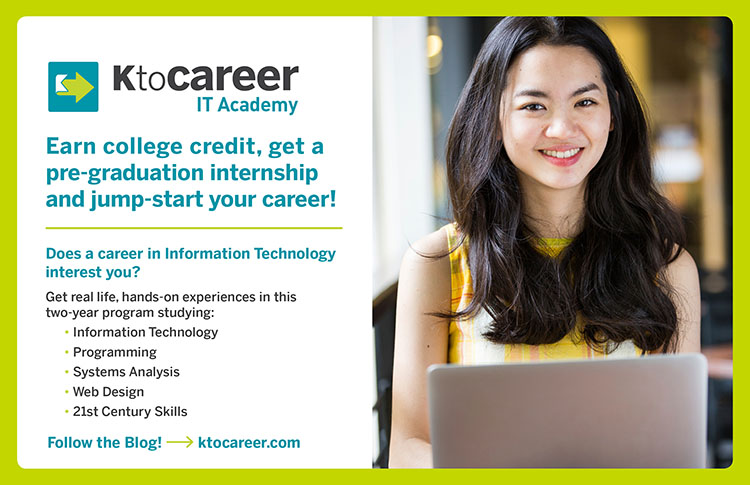
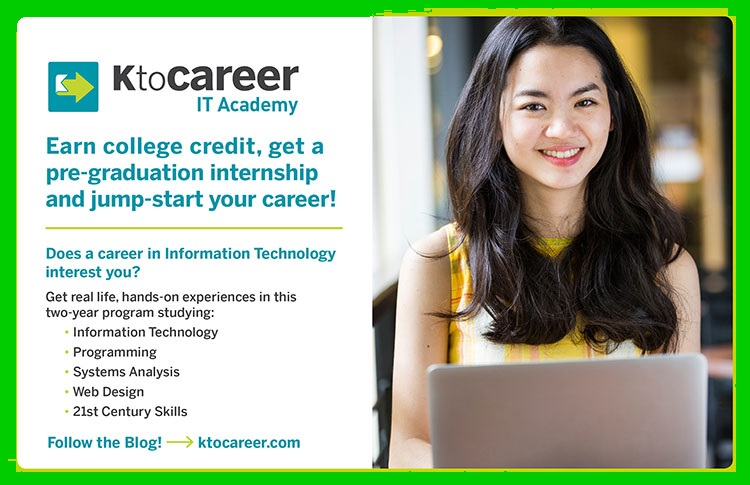
about tab

diff --git a/index.html b/index.html
@@ -10,9 +10,9 @@
         <div id="wrapper">
             <div id="main">
                 <div id="navbar">
-                    <h2 id="title">ITA DUBLIN</h2>
+                    <h2 id="title"><a id="homelink" href="index.html">ITA DUBLIN</a></h2>
                         <ul id="buttons">
-                            <li class="button" id="firstbutton"><a class="nav" href="index.html">About</a></li>
+                            <li class="button" id="firstbutton"><a class="nav" href="about.html">About</a></li>
                             <li class="button"><a class="nav" href="index.html">Courses</a></li>
                             <li class="button"><a class="nav" href="index.html">FAQ</a></li>
                             <li class="button"><a class="nav" href="index.html">Apply</a></li>
@@ -24,17 +24,17 @@
                     <p id="header">IT Academy</p>
                     <img id="brochure" src="brochure.jpg"/>
                 </div>
-                <div>
-                   <h1>About</h1> 
-                   <p>The IT Academy(ITA) is a 2-year, dual enrollment program that is exclusive to <a href="https://www.dublinschools.net/" target="_blank">Dublin City Schools.</a>  The course is designed for those who have a strong interest int IT and Computer Science.  Here at ITA, your kids will learn many materials and skills that will be useful throughtout their lifetime. One of the many great things of this academy is that you will learn HTML, JavaScript, SQl, Python, CSS, and Visual basic; many languages that thousands of companies use.  With this program you will do the course work that Columbus State requires and you will work on your own personal project involoving either a Raspberry Pi or an Arduino. The ITA is held at Dublin Scioto High School and is only available for Juniors and Seniors at any of the three Dublin high schools.   <a href="https://itacademy.wiki.dublinschools.net" target="_blank"> Click Here for more information</a>  </p>
 
-
-                 <h2>What is Dual enrollment?</h2>
-                 <p>Dual Enrollment means you will earn high shcool credit as well as college credit through Columbus State.  Columbus State and Tolles are partners and creators of the ITA which is why you will be doing Columbus State work and high school work.  By the end of the two years you will have earned 16 college credit hours at Columbus State.  Fortunaility, those credit hours will transfer to any in state college that you choose to go to. </p>   
-        
-        <h2>How do I get in?</h2>
-                </div>
             </div>
         </div>
     </body>
 </html>
+
+<!-- <h1>About</h1>
+        <p>The IT Academy(ITA) is a 2-year, dual enrollment program that is exclusive to <a href="https://www.dublinschools.net/" target="_blank">Dublin City Schools.</a>  The course is designed for those who have a strong interest int IT and Computer Science.  Here at ITA, your kids will learn many materials and skills that will be useful throughtout their lifetime. One of the many great things of this academy is that you will learn HTML, JavaScript, SQl, Python, CSS, and Visual basic; many languages that thousands of companies use.  With this program you will do the course work that Columbus State requires and you will work on your own personal project involoving either a Raspberry Pi or an Arduino. The ITA is held at Dublin Scioto High School and is only available for Juniors and Seniors at any of the three Dublin high schools.   <a href="https://itacademy.wiki.dublinschools.net" target="_blank"> Click Here for more information</a>  </p>
+
+
+        <h2>What is Dual enrollment?</h2>
+        <p>Dual Enrollment means you will earn high shcool credit as well as college credit through Columbus State.  Columbus State and Tolles are partners and creators of the ITA which is why you will be doing Columbus State work and high school work.  By the end of the two years you will have earned 16 college credit hours at Columbus State.  Fortunaility, those credit hours will transfer to any in state college that you choose to go to. </p>   
+
+        <h2>How do I get in?</h2> -->

diff --git a/about.html b/about.html
@@ -1,0 +1,38 @@
+<!DOCTYPE html>
+<html>
+    <link rel="Stylesheet" href="stylesheet.css"/>
+   
+    <head>
+        <title>IT Academy</title>
+    </head>
+    
+    <body>
+        <div id="wrapper">
+            <div id="main">
+                <div id="navbar">
+                    <h2 id="title"><a id="homelink" href="index.html">ITA DUBLIN</a></h2>
+                        <ul id="buttons">
+                            <li class="button" id="firstbutton"><a class="nav" href="about.html">About</a></li>
+                            <li class="button"><a class="nav" href="index.html">Courses</a></li>
+                            <li class="button"><a class="nav" href="index.html">FAQ</a></li>
+                            <li class="button"><a class="nav" href="index.html">Apply</a></li>
+                            <li class="button"><a class="nav" href="index.html">Contact Us</a></li>
+                        </ul>
+                </div>
+                <div id="separator"></div>
+                <div> 
+                    <p id="header">About</p>
+                    <h1>About</h1>
+                    <p>The IT Academy(ITA) is a 2-year, dual enrollment program that is exclusive to <a href="https://www.dublinschools.net/" target="_blank">Dublin City Schools.</a>  The course is designed for those who have a strong interest int IT and Computer Science.  Here at ITA, your kids will learn many materials and skills that will be useful throughtout their lifetime. One of the many great things of this academy is that you will learn HTML, JavaScript, SQl, Python, CSS, and Visual basic; many languages that thousands of companies use.  With this program you will do the course work that Columbus State requires and you will work on your own personal project involoving either a Raspberry Pi or an Arduino. The ITA is held at Dublin Scioto High School and is only available for Juniors and Seniors at any of the three Dublin high schools.   <a href="https://itacademy.wiki.dublinschools.net" target="_blank"> Click Here for more information</a>  </p>
+
+
+                    <h2>What is Dual enrollment?</h2>
+                    <p>Dual Enrollment means you will earn high shcool credit as well as college credit through Columbus State.  Columbus State and Tolles are partners and creators of the ITA which is why you will be doing Columbus State work and high school work.  By the end of the two years you will have earned 16 college credit hours at Columbus State.  Fortunaility, those credit hours will transfer to any in state college that you choose to go to. </p>   
+
+                    <h2>How do I get in?</h2>
+                </div>
+
+            </div>
+        </div>
+    </body>
+</html>

diff --git a/stylesheet.css b/stylesheet.css
@@ -29,6 +29,10 @@
 #title {
     display: inline-block;
     margin: 10px 0 0 20px;
+}
+
+#homelink {
+    text-decoration: none;
     color: darkgreen;
 }
 
@@ -64,7 +68,7 @@
     font-size: 70px;
     font-family: fantasy;
     text-align: center;
-    color: #AAFF33;
+    color: #00CC00;
 }
 
 #brochure {
